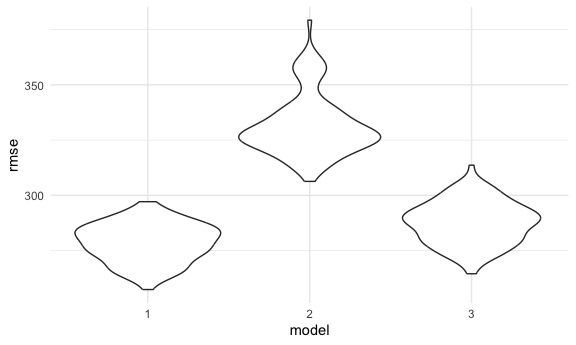
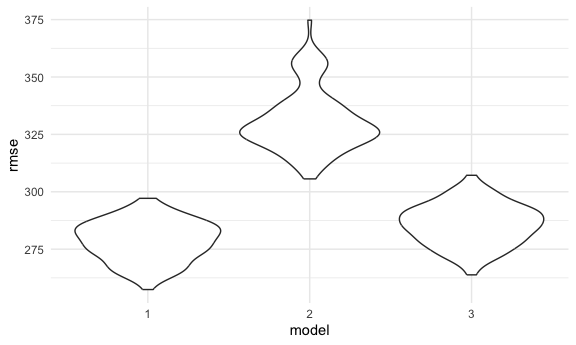
change the model 3 data

diff --git a/p8105_hw6_zz3168.md b/p8105_hw6_zz3168.md
@@ -218,6 +218,12 @@ model_fit =
   lm(bwt ~ babysex + bhead + blength + mrace + smoken, data = birthwt_df) 
 ```
 
+My model is based on factors that underlie birth weight. and consider
+the baby’s head circumference at birth, baby’s length at birth, and
+mother’s race will influence the babay’s birth weight, so i use these
+data for delivery in years and average number of cigarettes smoked per
+day during pregnancy for predictors.
+
 \##plot of Model Residuals
 
 ``` r
@@ -238,7 +244,7 @@ model_2 =
   broom::tidy()
 
 model_3 = 
-  lm(bwt ~ bhead + blength + babysex + bhead* blength* babysex, data = birthwt_df) |> 
+  lm(bwt ~ bhead* babysex + blength* babysex + bhead* blength* babysex, data = birthwt_df) |> 
    broom::tidy()
 ```
 
@@ -252,8 +258,8 @@ cv_df =
     test = map(test, as_tibble)) |> 
   mutate(
     model_1 = map(train, \(df) lm(bwt ~ babysex + bhead + blength + mrace + smoken, data = birthwt_df)),
-    model_2 = map(train, \(df) lm(bwt ~ blength + gaweeks, data = df)),
-    model_3 = map(train, \(df) lm(bwt ~ bhead + blength + babysex + bhead*blength*babysex, data = df))
+    model_2 = map(train, \(df) lm(bwt ~ blength + gaweeks, data = birthwt_df)),
+    model_3 = map(train, \(df) lm(bwt ~ bhead* babysex + blength* babysex + bhead* blength* babysex, data = birthwt_df))
   ) |> 
    mutate(
     rmse_1 = map2_dbl(model_1, test, \(mod, df) rmse(model = mod, data = df)),
@@ -275,3 +281,5 @@ cv_df |>
 ```
 
 <img src="p8105_hw6_zz3168_files/figure-gfm/unnamed-chunk-12-1.png" width="90%" />
+According to the plot we could saw that the model 2 has the highest
+values of rmse, and the model 1 have the lowest rmse.
